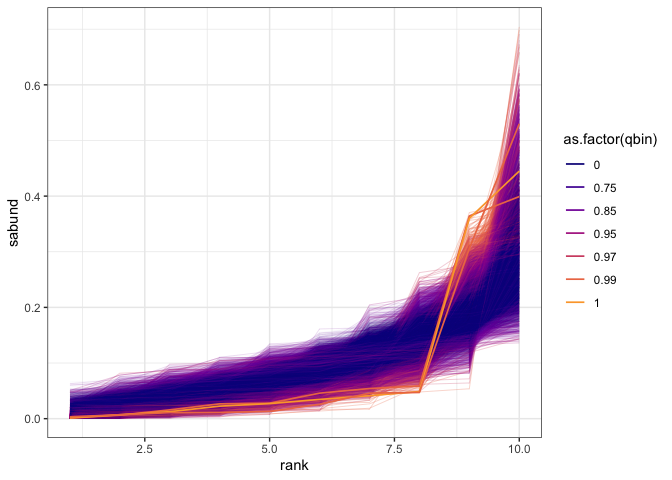
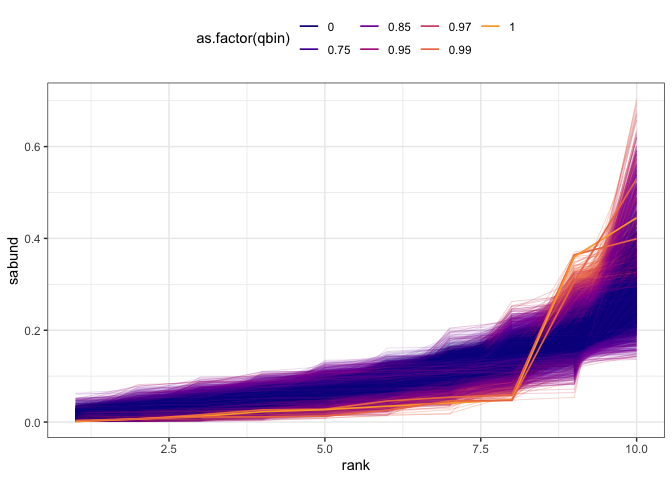
coefficients linecloud

diff --git a/reports/fs_space.md b/reports/fs_space.md
@@ -48,3 +48,5 @@ SSQE is error of estimation vs. real value. There is no real value for the centr
 ![](fs_space_files/figure-markdown_github/heatmap-1.png)
 
 ![](fs_space_files/figure-markdown_github/linecloud-1.png)
+
+![](fs_space_files/figure-markdown_github/coefficients%20linecloud-1.png)
